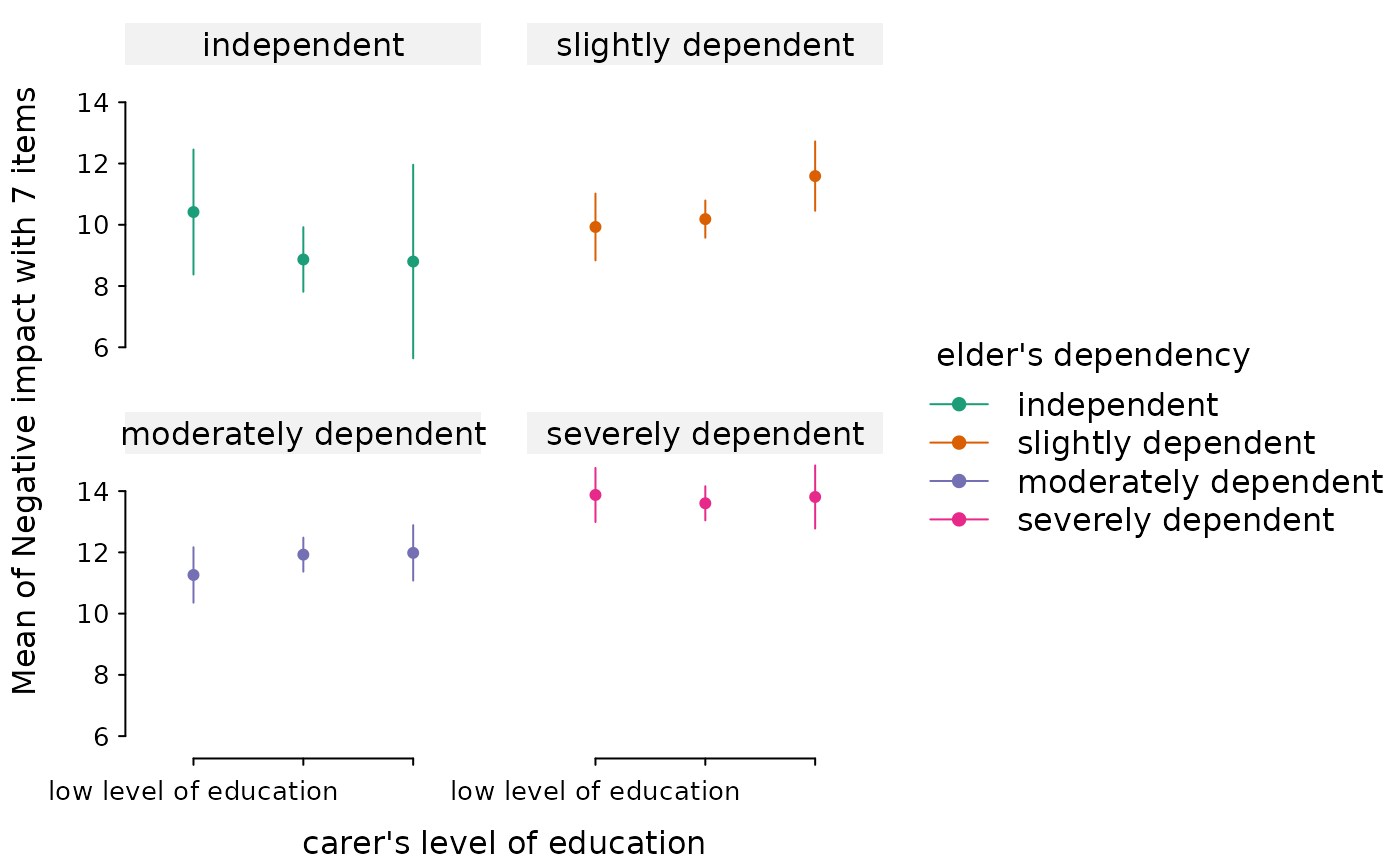
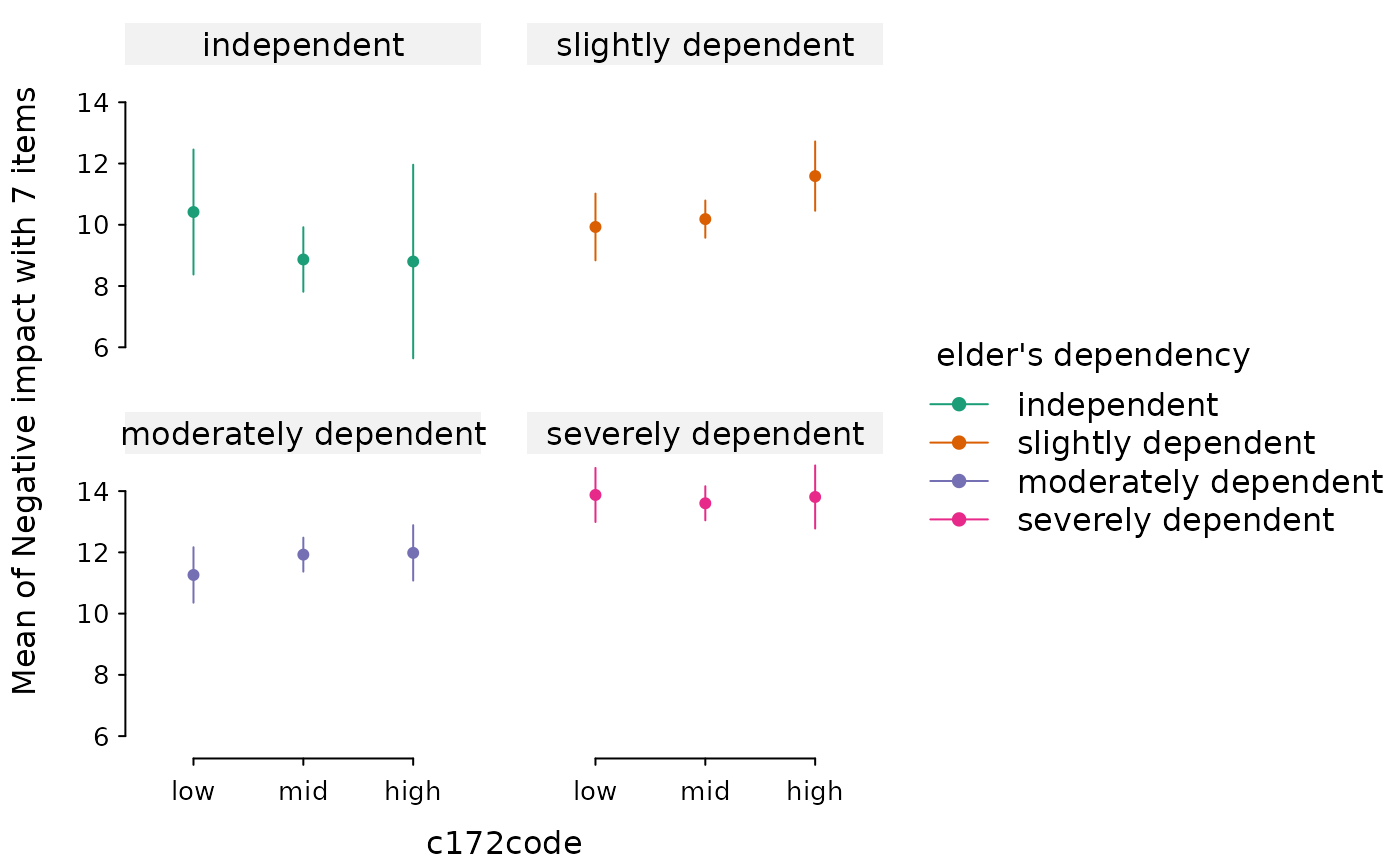
Deploying to gh-pages from @ easystats/modelbased@cd3186568f8fae4e45eaa73d8ce19e2609f5ebe7 🚀

diff --git a/reference/visualisation_recipe.estimate_predicted.html b/reference/visualisation_recipe.estimate_predicted.html
@@ -353,8 +353,9 @@ when using <code><a href="https://grantmcdermott.com/tinyplot/man/tinyplot.html"
 <span class="r-in"><span><span class="co"># Reset to default theme</span></span></span>
 <span class="r-in"><span><span class="fu"><a href="https://grantmcdermott.com/tinyplot/man/tinytheme.html" class="external-link">tinytheme</a></span><span class="op">(</span><span class="op">)</span></span></span>
 <span class="r-in"><span></span></span>
-<span class="r-in"><span><span class="co"># facets</span></span></span>
+<span class="r-in"><span><span class="co"># facets, grids, legends</span></span></span>
 <span class="r-in"><span><span class="fu"><a href="https://rdrr.io/r/utils/data.html" class="external-link">data</a></span><span class="op">(</span><span class="va">efc</span>, package <span class="op">=</span> <span class="st">"modelbased"</span><span class="op">)</span></span></span>
+<span class="r-in"><span><span class="va">efc</span><span class="op">$</span><span class="va">c172code</span> <span class="op">&lt;-</span> <span class="fu"><a href="https://rdrr.io/r/base/factor.html" class="external-link">factor</a></span><span class="op">(</span><span class="va">efc</span><span class="op">$</span><span class="va">c172code</span>, labels <span class="op">=</span> <span class="fu"><a href="https://rdrr.io/r/base/c.html" class="external-link">c</a></span><span class="op">(</span><span class="st">"low"</span>, <span class="st">"mid"</span>, <span class="st">"high"</span><span class="op">)</span><span class="op">)</span></span></span>
 <span class="r-in"><span><span class="va">m</span> <span class="op">&lt;-</span> <span class="fu"><a href="https://rdrr.io/r/stats/lm.html" class="external-link">lm</a></span><span class="op">(</span><span class="va">neg_c_7</span> <span class="op">~</span> <span class="va">c172code</span> <span class="op">*</span> <span class="va">e42dep</span>, data <span class="op">=</span> <span class="va">efc</span><span class="op">)</span></span></span>
 <span class="r-in"><span><span class="va">em</span> <span class="op">&lt;-</span> <span class="fu"><a href="estimate_means.html">estimate_means</a></span><span class="op">(</span><span class="va">m</span>, <span class="fu"><a href="https://rdrr.io/r/base/c.html" class="external-link">c</a></span><span class="op">(</span><span class="st">"c172code"</span>, <span class="st">"e42dep"</span><span class="op">)</span><span class="op">)</span></span></span>
 <span class="r-in"><span></span></span>
@@ -369,6 +370,7 @@ when using <code><a href="https://grantmcdermott.com/tinyplot/man/tinyplot.html"
 <span class="r-in"><span>  dodge <span class="op">=</span> <span class="fl">0</span>,</span></span>
 <span class="r-in"><span>  theme <span class="op">=</span> <span class="st">"float"</span>,</span></span>
 <span class="r-in"><span>  xlim <span class="op">=</span> <span class="fu"><a href="https://rdrr.io/r/base/c.html" class="external-link">c</a></span><span class="op">(</span><span class="fl">1</span>, <span class="fl">3</span><span class="op">)</span>,</span></span>
+<span class="r-in"><span>  grid <span class="op">=</span> <span class="cn">TRUE</span>,</span></span>
 <span class="r-in"><span>  legend <span class="op">=</span> <span class="cn">FALSE</span></span></span>
 <span class="r-in"><span><span class="op">)</span></span></span>
 <span class="r-plt img"><img src="visualisation_recipe.estimate_predicted-7.png" alt="" width="700" height="433"></span>

diff --git a/reference/visualisation_recipe.estimate_predicted.md b/reference/visualisation_recipe.estimate_predicted.md
@@ -259,8 +259,9 @@ plt_add(type = "l", lty = 2)
 # Reset to default theme
 tinytheme()
 
-# facets
+# facets, grids, legends
 data(efc, package = "modelbased")
+efc$c172code <- factor(efc$c172code, labels = c("low", "mid", "high"))
 m <- lm(neg_c_7 ~ c172code * e42dep, data = efc)
 em <- estimate_means(m, c("c172code", "e42dep"))
 
@@ -275,6 +276,7 @@ plt(
   dodge = 0,
   theme = "float",
   xlim = c(1, 3),
+  grid = TRUE,
   legend = FALSE
 )
 